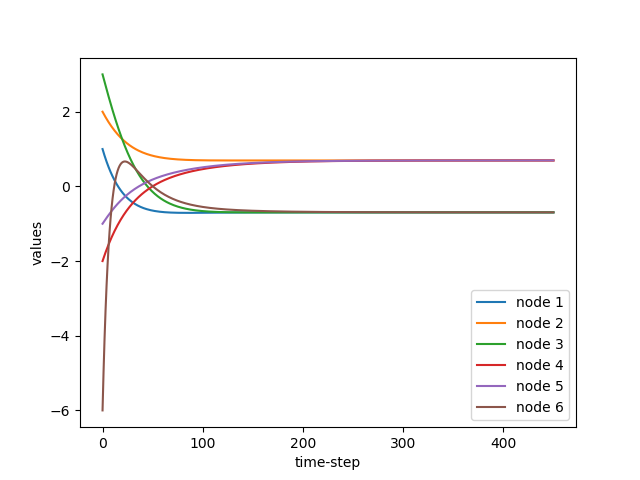
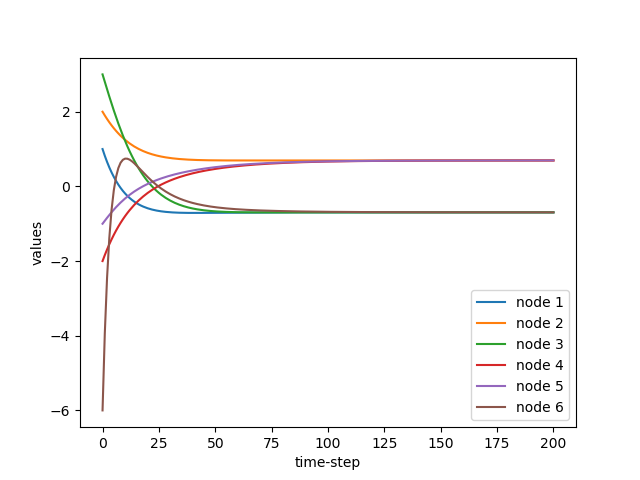
update

diff --git a/week_6/interval_bipartite_consensus.py b/week_6/interval_bipartite_consensus.py
@@ -26,6 +26,22 @@ def get_in_neighbors(node, in_edge):
         in_neighbors.append(edge[1] if edge[0] == node else edge[0])
     return in_neighbors
 
+# 获取一个图的邻接矩阵
+# def get_adj_mat(graph):
+#     """
+#     get the adjacency matrix
+#     :param graph:
+#     :return:
+#     """
+#     size = len(graph.nodes())
+#     matrix = np.zeros(shape=(size, size), dtype=np.float)
+
+#     for edge in graph.edges(data=True):
+#         matrix[edge[0] - 1][edge[1] - 1] = edge[2]['weight']
+#         matrix[edge[1] - 1][edge[0] - 1] = edge[2]['weight']
+
+#     return matrix
+
 
 def interval_bipartite_consensus(graph_no):
     '''init'''
@@ -89,4 +105,4 @@ def interval_bipartite_consensus(graph_no):
 if __name__ == '__main__':
         # for i in range(1, 5):
         # 	interval_bipartite_consensus(graph_no=i
-    interval_bipartite_consensus(graph_no=4)
+    interval_bipartite_consensus(graph_no=1)

diff --git a/week_6/matrix_multiply_test.py b/week_6/matrix_multiply_test.py
@@ -1,5 +1,6 @@
 # matrix multiply tests
 import numpy as np
+import random
 import matplotlib.pyplot as plt
 
 L = np.mat(np.array([1, -1, 0, 0, 1.5, -1.5, -2, 0, 2]).reshape(3, 3))
